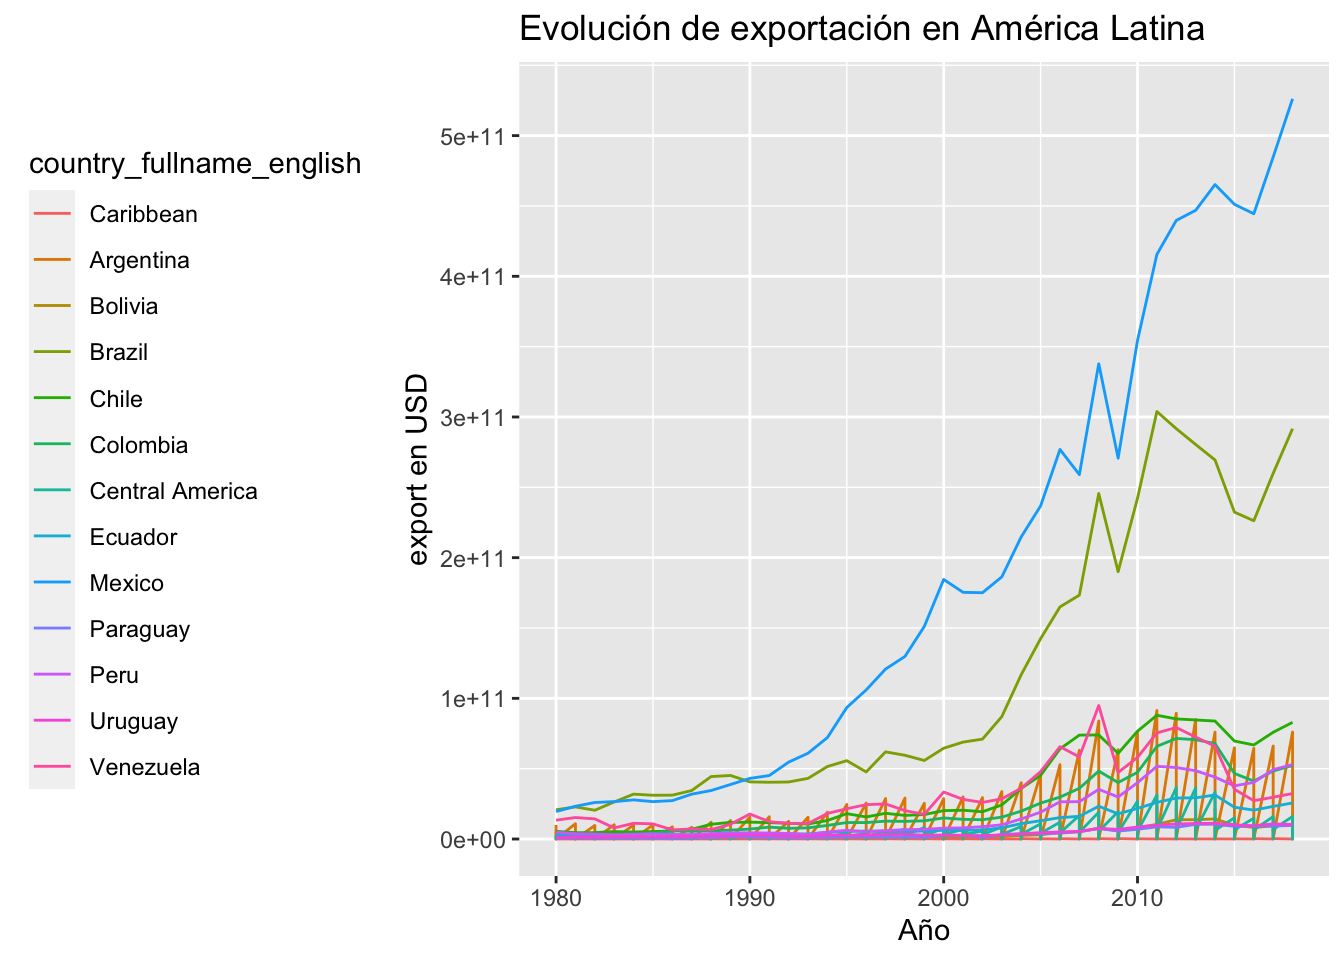
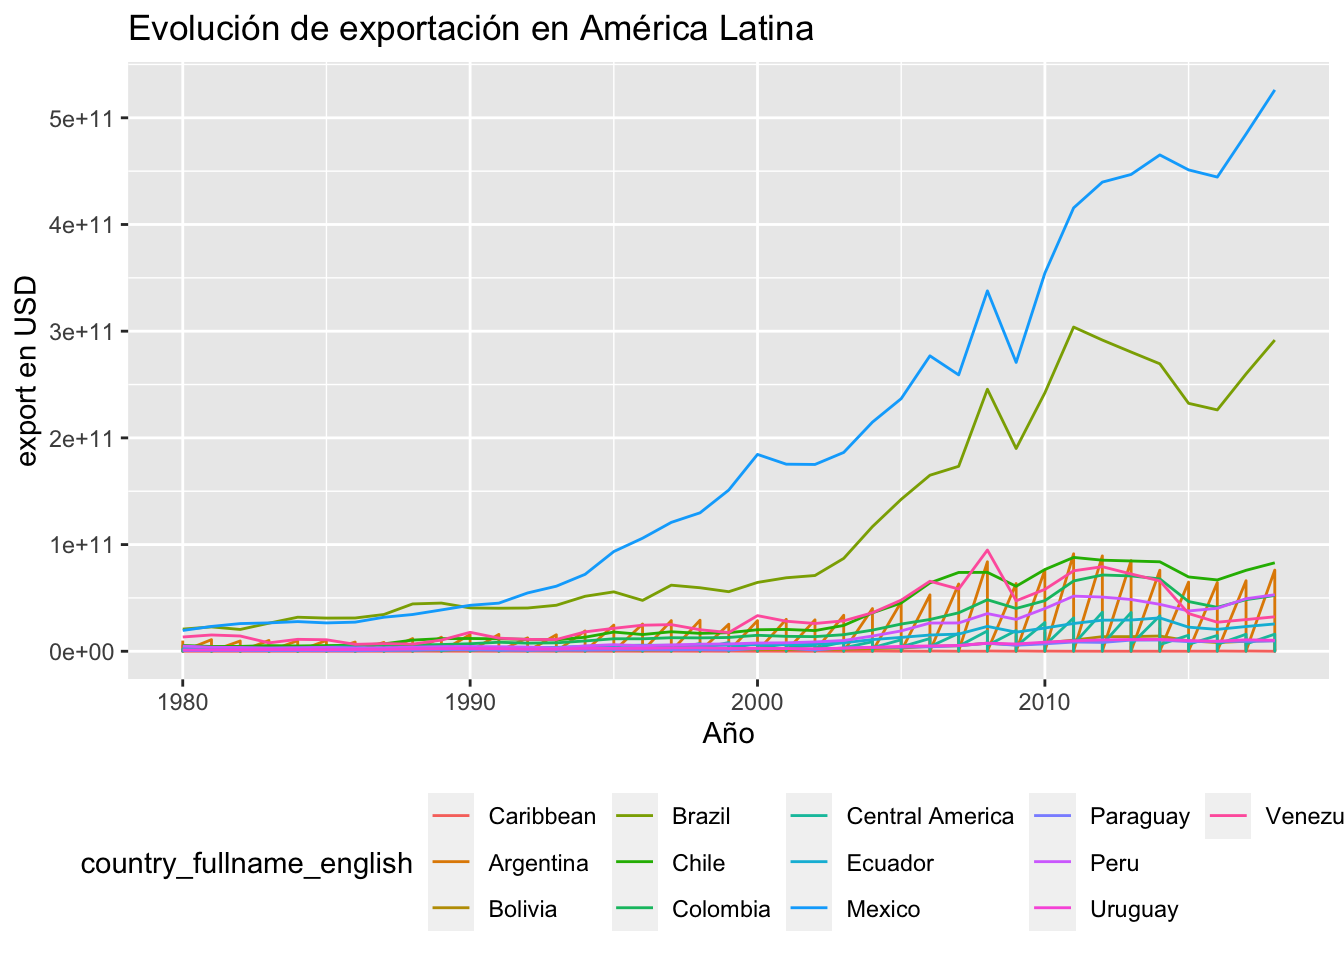
Updates on analisis historico

diff --git a/content/post/2020-12-07-datos-historicos/index.html b/content/post/2020-12-07-datos-historicos/index.html
@@ -122,6 +122,7 @@ comercio_latam_caribbean &lt;- comercio_latam_modificado %&gt;%
   labs(title = &quot;Evolución de exportación en América Latina&quot;,
        y = &quot;export en USD&quot;,
        x = &quot;Año&quot;) +
-  theme(legend.position = &quot;left&quot;)</code></pre>
+  theme(legend.position = &quot;bottom&quot;)</code></pre>
 <p><img src="index_files/figure-html/comercio%20LATAM%20graph-1.png" width="672" /></p>
+<p>trying to make a bar chat as well:</p>
 </div>
